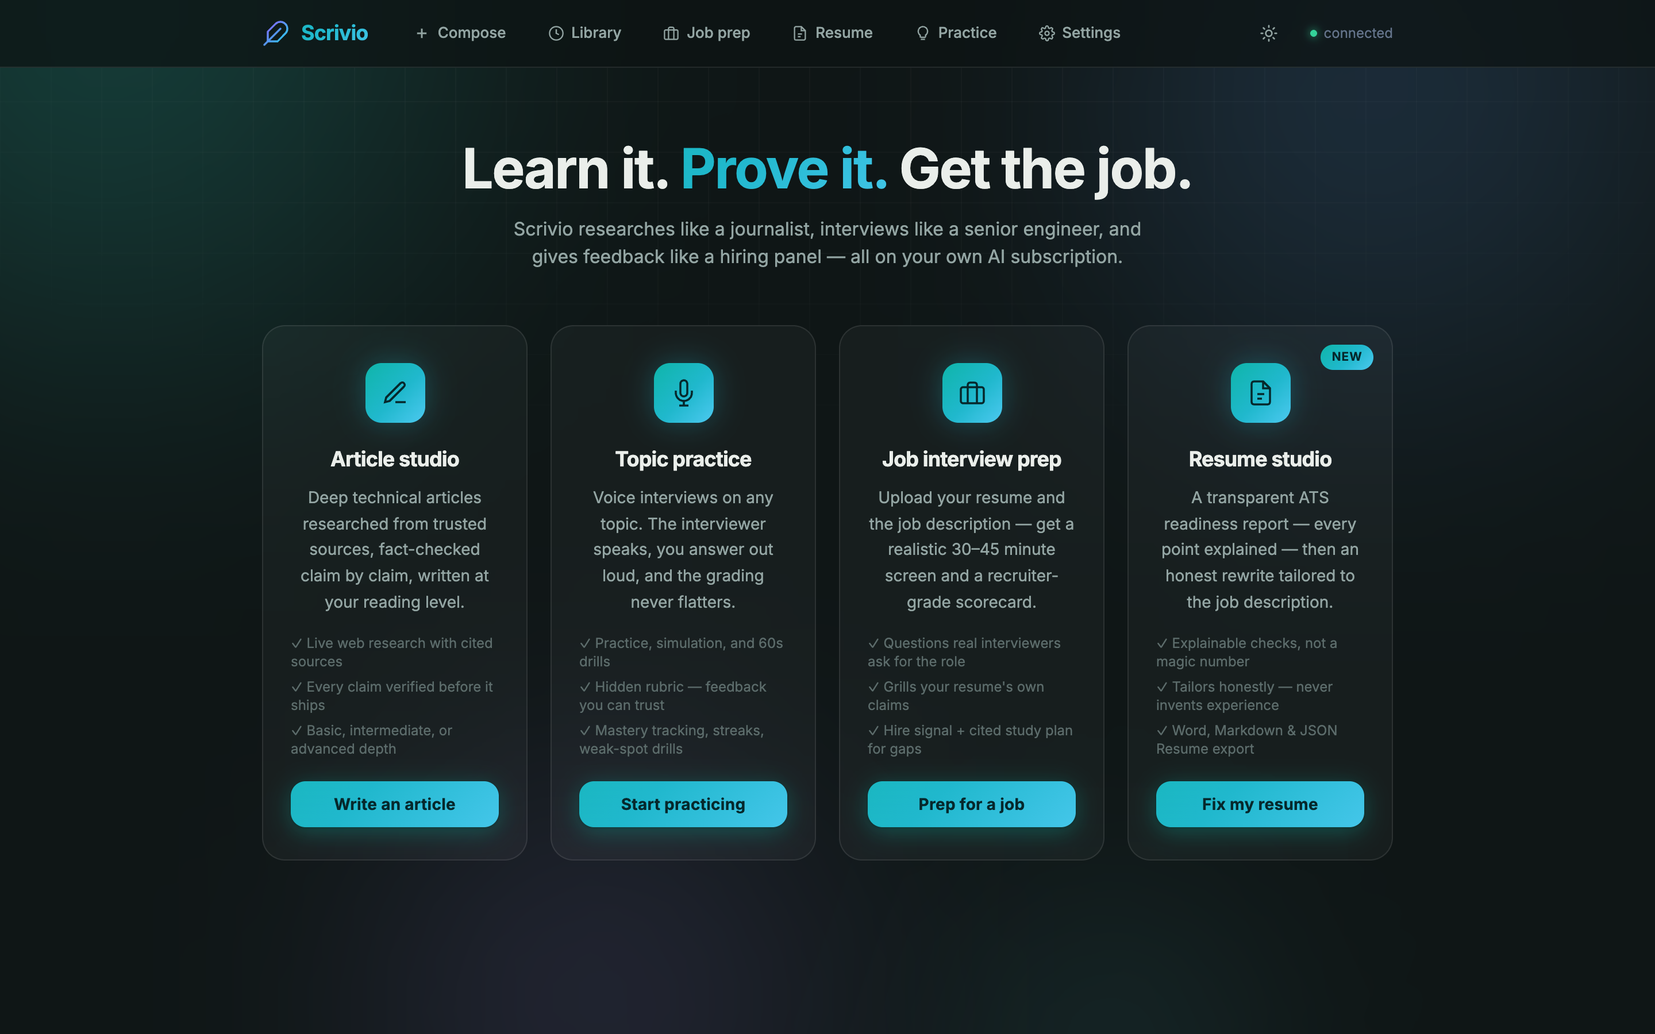
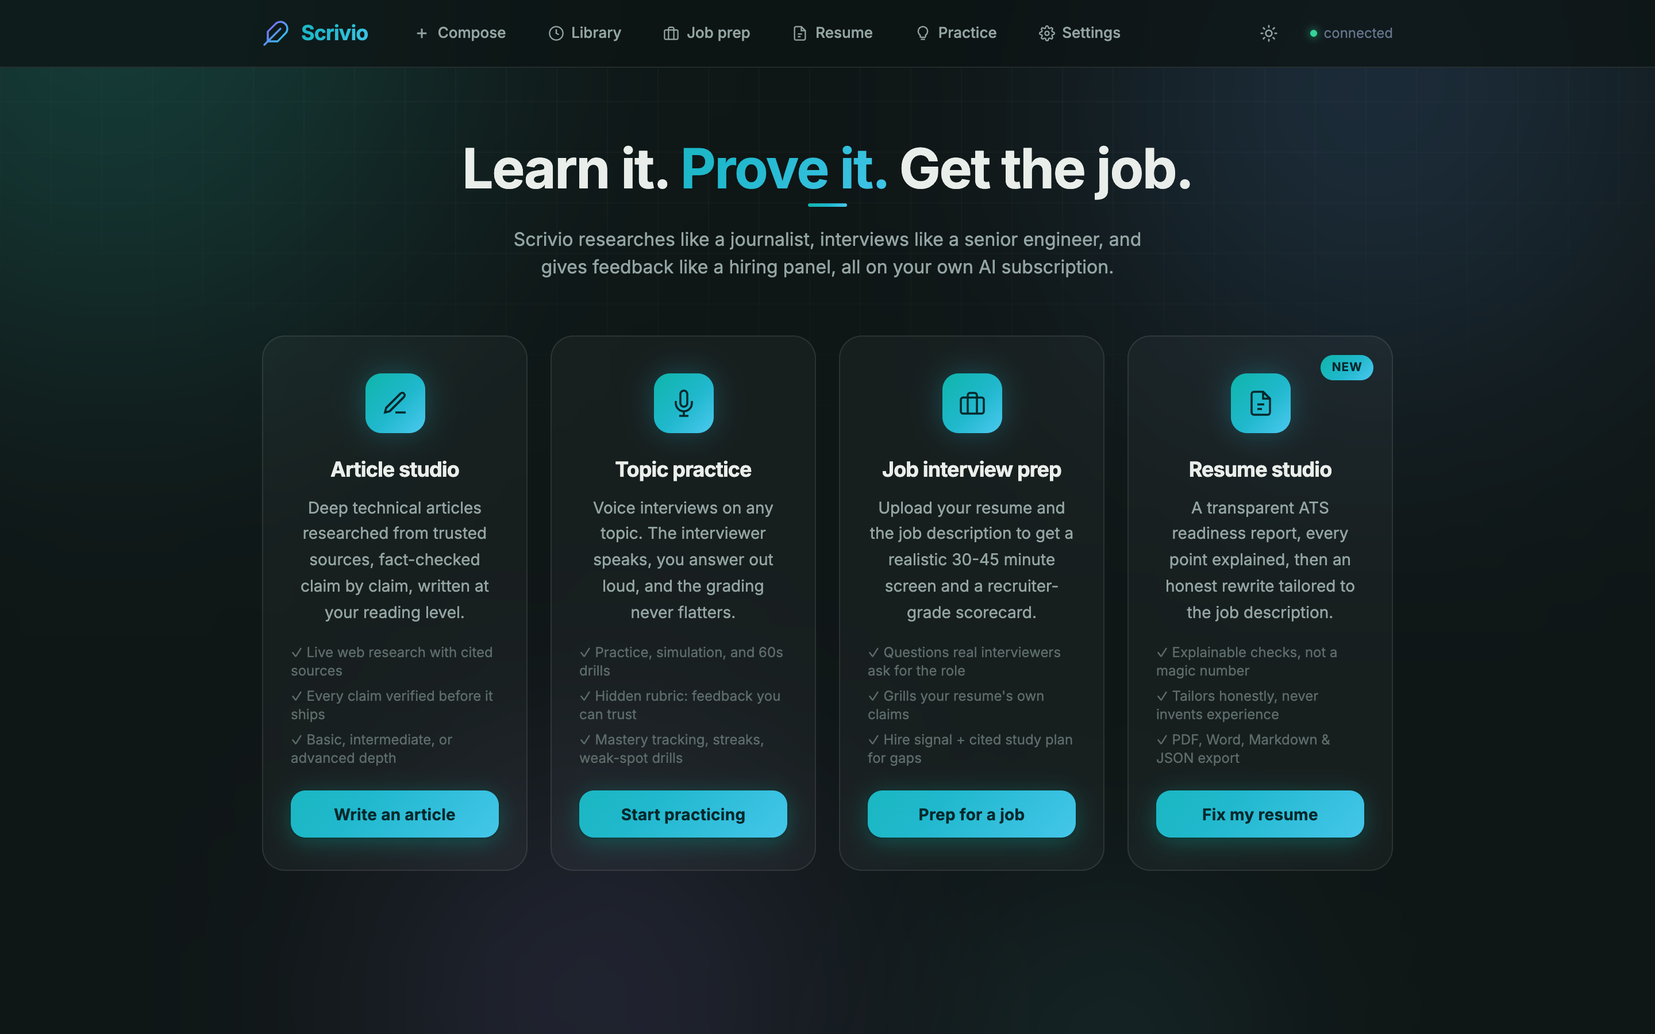
Design elevation pass: tokens, signature bar-tick, keyboard + motion floor
Applied with the frontend-design skill against the established identity
(aurora, Inter/Space Grotesk, teal gradient) rather than replacing it:

- One .eyebrow token replaces 32 hand-typed uppercase label class
  strings (accent variant included) - the type system is now a decision
  made once, not repeated per card.
- Signature element: the bar-tick, a short gradient rule under the four
  studio headlines. It draws the product's thesis - the bar is set
  before you speak - as a quiet, ownable mark.
- Quality floor: a global :focus-visible ring (verified against real
  Tab navigation), and prefers-reduced-motion now stills every
  animation and transition instead of only the aurora blobs.

README home + resume screenshots refreshed with the elevated design.

diff --git a/ui/index.html b/ui/index.html
@@ -130,7 +130,41 @@
     -webkit-mask-image: radial-gradient(ellipse 90% 60% at 50% 0%, black 30%, transparent 75%);
   }
   html[data-theme="light"] .backdrop::after { display: none; }
-  @media (prefers-reduced-motion: reduce) { .blob { animation: none; } }
+  /* Quality floor: every animation and transition yields to the user's
+     motion preference, not just the aurora. */
+  @media (prefers-reduced-motion: reduce) {
+    *, *::before, *::after {
+      animation-duration: 0.01ms !important;
+      animation-iteration-count: 1 !important;
+      transition-duration: 0.01ms !important;
+      scroll-behavior: auto !important;
+    }
+    .blob { animation: none; }
+  }
+
+  /* Keyboard focus: one visible ring everywhere, accent-colored. */
+  :focus-visible {
+    outline: 2px solid var(--accent-text);
+    outline-offset: 2px;
+    border-radius: 6px;
+  }
+
+  /* ── Design tokens: recurring roles ──
+     eyebrow: the small uppercase section label used across every card.
+     bar-tick: the signature mark, a short gradient rule under a headline.
+     The product's thesis is "the bar is set before you speak" (rubrics
+     written first, checks you can verify); this is that bar, drawn. */
+  .eyebrow {
+    font-size: 0.7rem; font-weight: 650; text-transform: uppercase;
+    letter-spacing: 0.08em; color: var(--text-faint);
+  }
+  .eyebrow-accent { color: var(--accent-text); }
+  .bar-tick { position: relative; padding-bottom: 0.55rem; }
+  .bar-tick::after {
+    content: ""; position: absolute; left: 0; bottom: 0;
+    width: 34px; height: 3px; border-radius: 2px; background: var(--grad);
+  }
+  .bar-tick-center::after { left: 50%; transform: translateX(-50%); }
 
   /* Typography: Inter everywhere (SF Pro takes over on Apple devices via
      the -apple-system fallback ahead of webfont load). Display = tighter
@@ -710,7 +744,7 @@
   <!-- ── Home ── -->
   <section id="home-panel" class="view hidden">
     <div class="text-center mb-12 mt-6 rise-in">
-      <h1 class="font-display text-4xl sm:text-5xl font-bold tracking-tight leading-tight">
+      <h1 class="font-display text-4xl sm:text-5xl font-bold tracking-tight leading-tight bar-tick bar-tick-center">
         Learn it. <span class="grad-text">Prove it.</span> Get the job.
       </h1>
       <p class="text-sm sm:text-base mt-4 max-w-xl mx-auto" style="color:var(--text-dim)">
@@ -791,7 +825,7 @@
   <!-- ── Compose ── -->
   <section id="config-panel" class="view view-fade">
     <div class="text-center mb-8 mt-2">
-      <h1 class="font-display text-3xl sm:text-4xl font-bold tracking-tight leading-tight">
+      <h1 class="font-display text-3xl sm:text-4xl font-bold tracking-tight leading-tight bar-tick bar-tick-center">
         What should we <span class="grad-text">write</span> today?
       </h1>
       <p class="text-sm mt-3" style="color:var(--text-dim)">
@@ -1035,7 +1069,7 @@
         <span class="text-xs font-mono-ui" style="color:var(--text-faint)" id="output-dir"></span>
       </div>
       <div class="flex items-center gap-2">
-        <label class="text-xs font-semibold uppercase tracking-wider" style="color:var(--text-dim)">Level</label>
+        <label class="eyebrow" style="color:var(--text-dim)">Level</label>
         <select id="level-selector" class="q-input py-1.5 text-sm" style="width:auto;"></select>
         <button type="button" id="result-practice-btn" class="btn-primary text-sm">
           <svg class="w-3.5 h-3.5" viewBox="0 0 24 24" fill="none" stroke="currentColor" stroke-width="2.5"><polyline points="9 11 12 14 22 4"/><path d="M21 12v7a2 2 0 0 1-2 2H5a2 2 0 0 1-2-2V5a2 2 0 0 1 2-2h11"/></svg>
@@ -1081,11 +1115,11 @@
       </div>
       <div class="flex items-center gap-3 flex-wrap">
         <div class="hidden items-center gap-2" id="past-version-wrap" style="display:none">
-          <label class="text-xs font-semibold uppercase tracking-wider" style="color:var(--text-dim)">Version</label>
+          <label class="eyebrow" style="color:var(--text-dim)">Version</label>
           <select id="past-version-selector" class="q-input py-1.5 text-sm" style="width:auto;"></select>
         </div>
         <div class="flex items-center gap-2" id="past-level-wrap">
-          <label class="text-xs font-semibold uppercase tracking-wider" style="color:var(--text-dim)">Level</label>
+          <label class="eyebrow" style="color:var(--text-dim)">Level</label>
           <select id="past-level-selector" class="q-input py-1.5 text-sm" style="width:auto;"></select>
         </div>
         <button type="button" id="past-practice-btn" class="btn-primary text-sm">
@@ -1109,7 +1143,7 @@
     <!-- Home: start a session or resume a past one -->
     <div id="practice-home">
       <div class="text-center mb-8 mt-2 rise-in">
-        <h1 class="font-display text-3xl sm:text-4xl font-bold tracking-tight leading-tight">
+        <h1 class="font-display text-3xl sm:text-4xl font-bold tracking-tight leading-tight bar-tick bar-tick-center">
           Ready for your next <span class="grad-text">interview</span>?
         </h1>
         <p class="text-sm mt-3" style="color:var(--text-dim)">
@@ -1266,7 +1300,7 @@
   <!-- ── Job prep ── -->
   <section id="job-panel" class="view hidden">
     <div class="text-center mb-8 mt-2 rise-in">
-      <h1 class="font-display text-3xl sm:text-4xl font-bold tracking-tight leading-tight">
+      <h1 class="font-display text-3xl sm:text-4xl font-bold tracking-tight leading-tight bar-tick bar-tick-center">
         Interview for <span class="grad-text">the job</span>, not just the topic
       </h1>
       <p class="text-sm mt-3" style="color:var(--text-dim)">
@@ -1278,19 +1312,19 @@
     <div class="card px-6 py-6 mb-6 rise-in" style="animation-delay:.06s" id="job-setup-card">
       <div class="grid grid-cols-1 sm:grid-cols-2 gap-4 mb-4">
         <div>
-          <label class="block text-xs font-semibold uppercase tracking-wider mb-1.5" style="color:var(--text-dim)">Role title *</label>
+          <label class="block eyebrow mb-1.5" style="color:var(--text-dim)">Role title *</label>
           <input id="job-role" type="text" class="q-input w-full text-sm" placeholder="e.g. Senior Backend Engineer" />
         </div>
         <div>
-          <label class="block text-xs font-semibold uppercase tracking-wider mb-1.5" style="color:var(--text-dim)">Company</label>
+          <label class="block eyebrow mb-1.5" style="color:var(--text-dim)">Company</label>
           <input id="job-company" type="text" class="q-input w-full text-sm" placeholder="e.g. Acme Corp" />
         </div>
         <div>
-          <label class="block text-xs font-semibold uppercase tracking-wider mb-1.5" style="color:var(--text-dim)">Location</label>
+          <label class="block eyebrow mb-1.5" style="color:var(--text-dim)">Location</label>
           <input id="job-location" type="text" class="q-input w-full text-sm" placeholder="e.g. Austin, TX / Remote" />
         </div>
         <div>
-          <label class="block text-xs font-semibold uppercase tracking-wider mb-1.5" style="color:var(--text-dim)">Seniority</label>
+          <label class="block eyebrow mb-1.5" style="color:var(--text-dim)">Seniority</label>
           <select id="job-seniority" class="q-input w-full text-sm">
             <option value="">Not specified</option>
             <option value="junior">Junior</option>
@@ -1303,13 +1337,13 @@
       </div>
 
       <div class="mb-4">
-        <label class="block text-xs font-semibold uppercase tracking-wider mb-1.5" style="color:var(--text-dim)">Job description * <span class="normal-case font-normal" style="color:var(--text-faint)">paste it, or a posting URL</span></label>
+        <label class="block eyebrow mb-1.5" style="color:var(--text-dim)">Job description * <span class="normal-case font-normal" style="color:var(--text-faint)">paste it, or a posting URL</span></label>
         <input id="job-jd-url" type="text" class="q-input w-full text-sm mb-2" placeholder="https://… (optional — fetches the posting)" />
         <textarea id="job-jd" rows="5" class="q-input w-full text-sm" placeholder="Paste the job description here…"></textarea>
       </div>
 
       <div class="mb-4">
-        <label class="block text-xs font-semibold uppercase tracking-wider mb-1.5" style="color:var(--text-dim)">Resume * <span class="normal-case font-normal" style="color:var(--text-faint)">PDF, DOCX, TXT, or paste</span></label>
+        <label class="block eyebrow mb-1.5" style="color:var(--text-dim)">Resume * <span class="normal-case font-normal" style="color:var(--text-faint)">PDF, DOCX, TXT, or paste</span></label>
         <div class="flex items-center gap-3 mb-2 flex-wrap">
           <label class="btn-outline text-sm cursor-pointer">
             <input id="job-resume-file" type="file" accept=".pdf,.docx,.txt,.md" class="hidden" />
@@ -1321,7 +1355,7 @@
       </div>
 
       <div class="mb-4">
-        <label class="block text-xs font-semibold uppercase tracking-wider mb-1.5" style="color:var(--text-dim)">Anything else? <span class="normal-case font-normal" style="color:var(--text-faint)">recruiter hints, round focus, notes</span></label>
+        <label class="block eyebrow mb-1.5" style="color:var(--text-dim)">Anything else? <span class="normal-case font-normal" style="color:var(--text-faint)">recruiter hints, round focus, notes</span></label>
         <input id="job-notes" type="text" class="q-input w-full text-sm" placeholder="e.g. recruiter said they focus on system design" />
       </div>
 
@@ -1373,7 +1407,7 @@
     <!-- Setup -->
     <div class="card px-6 py-6 mb-6 rise-in" style="animation-delay:.06s" id="resume-setup-card">
       <div class="mb-4">
-        <label class="block text-xs font-semibold uppercase tracking-wider mb-1.5" style="color:var(--text-dim)">Resume * <span class="normal-case font-normal" style="color:var(--text-faint)">PDF, DOCX, TXT, JSON Resume, or paste</span></label>
+        <label class="block eyebrow mb-1.5" style="color:var(--text-dim)">Resume * <span class="normal-case font-normal" style="color:var(--text-faint)">PDF, DOCX, TXT, JSON Resume, or paste</span></label>
         <div class="flex items-center gap-3 mb-2 flex-wrap">
           <label class="btn-outline text-sm cursor-pointer">
             <input id="resume-file" type="file" accept=".pdf,.docx,.txt,.md,.json" class="hidden" />
@@ -1385,7 +1419,7 @@
       </div>
 
       <div class="mb-4">
-        <label class="block text-xs font-semibold uppercase tracking-wider mb-1.5" style="color:var(--text-dim)">Target job <span class="normal-case font-normal" style="color:var(--text-faint)">optional, unlocks keyword match + tailoring</span></label>
+        <label class="block eyebrow mb-1.5" style="color:var(--text-dim)">Target job <span class="normal-case font-normal" style="color:var(--text-faint)">optional, unlocks keyword match + tailoring</span></label>
         <select id="resume-jd-profile" class="q-input w-full text-sm mb-2">
           <option value="">No saved job target</option>
         </select>
@@ -2648,7 +2682,7 @@
       if (topics.length) {
         masteryEl.classList.remove('hidden');
         masteryEl.innerHTML =
-          '<p class="text-xs font-semibold uppercase tracking-wider mb-3" style="color:var(--text-faint)">Topic mastery</p>' +
+          '<p class="eyebrow mb-3">Topic mastery</p>' +
           topics.map(t => `
             <div class="mb-2.5">
               <div class="flex items-center justify-between text-xs mb-1">
@@ -2916,7 +2950,7 @@
     if (!items || items.length === 0) return '';
     return `
       <div class="mb-3">
-        <p class="text-xs font-semibold uppercase tracking-wider mb-1" style="color:${color}">${title}</p>
+        <p class="eyebrow mb-1" style="color:${color}">${title}</p>
         <ul class="text-sm space-y-1" style="color:var(--text-dim)">
           ${items.map(i => `<li class="flex gap-2"><span style="color:${color}">•</span><span>${escapeHtml(i)}</span></li>`).join('')}
         </ul>
@@ -2937,7 +2971,7 @@
       $('practice-answer-block').classList.add('hidden');
       tail = `
         <div class="pt-3 mt-1" style="border-top:1px solid var(--stroke)">
-          <p class="text-xs font-semibold uppercase tracking-wider mb-1" style="color:var(--accent-text)">Follow-up question</p>
+          <p class="eyebrow eyebrow-accent mb-1">Follow-up question</p>
           <p class="text-sm font-semibold mb-3" style="color:var(--text)">${escapeHtml(followupQuestion)}</p>
           <div id="practice-followup-voice"></div>
           <div class="flex items-center justify-center gap-3 mt-2">
@@ -2949,7 +2983,7 @@
       $('practice-answer-block').classList.add('hidden');
       const modelAnswer = question.model_answer
         ? `<div class="pt-3 mt-1" style="border-top:1px solid var(--stroke)">
-             <p class="text-xs font-semibold uppercase tracking-wider mb-1" style="color:var(--text-faint)">What an interviewer wants to hear</p>
+             <p class="eyebrow mb-1">What an interviewer wants to hear</p>
              <div class="prose-feedback text-sm leading-relaxed" style="color:var(--text-dim)">${marked.parse(question.model_answer)}</div>
            </div>`
         : '';
@@ -3123,7 +3157,7 @@
     const isSim = State.practice && State.practice.session.mode === 'simulation';
     const debrief = summary.debrief
       ? `<div class="card px-6 py-5 mb-4" style="border-color:rgba(32,184,205,0.35)">
-           <p class="text-xs font-semibold uppercase tracking-wider mb-2" style="color:var(--accent-text)">Interviewer's notes</p>
+           <p class="eyebrow eyebrow-accent mb-2">Interviewer's notes</p>
            <p class="text-sm leading-relaxed" style="color:var(--text)">${escapeHtml(summary.debrief)}</p>
          </div>`
       : '';
@@ -3138,7 +3172,7 @@
       </div>
       ${debrief}
       <div class="card px-6 py-5 mb-4">${rows || '<p class="text-sm" style="color:var(--text-dim)">No questions.</p>'}</div>
-      ${weak ? `<div class="card px-6 py-4 mb-4"><p class="text-xs font-semibold uppercase tracking-wider mb-1" style="color:var(--text-faint)">Before the real interview, revisit</p><p class="text-sm" style="color:var(--text-dim)">${escapeHtml(weak)}</p></div>` : ''}
+      ${weak ? `<div class="card px-6 py-4 mb-4"><p class="eyebrow mb-1">Before the real interview, revisit</p><p class="text-sm" style="color:var(--text-dim)">${escapeHtml(weak)}</p></div>` : ''}
       <div class="flex items-center justify-center gap-3 mt-6">
         <button type="button" id="practice-again-btn" class="btn-primary text-sm">Practice again</button>
         <button type="button" id="practice-home-btn" class="btn-outline text-sm">All sessions</button>
@@ -3260,7 +3294,7 @@
       ? `<p class="text-xs mt-3" style="color:var(--text-faint)">The interviewer will probe: <span style="color:var(--text-dim)">${a.gaps.map(escapeHtml).join(' · ')}</span></p>`
       : '';
     $('job-fit-body').innerHTML = `
-      <p class="text-xs font-semibold uppercase tracking-wider mb-2" style="color:var(--text-faint)">What this interview will measure</p>
+      <p class="eyebrow mb-2">What this interview will measure</p>
       <div>${chips}</div>${gaps}`;
     $('job-fit').classList.remove('hidden');
     $('job-fit').scrollIntoView({ behavior: 'smooth', block: 'center' });
@@ -3297,7 +3331,7 @@
     const fb = $('practice-feedback');
     fb.innerHTML = `
       <div class="card px-6 py-5">
-        <p class="text-xs font-semibold uppercase tracking-wider mb-1" style="color:var(--accent-text)">Follow-up</p>
+        <p class="eyebrow eyebrow-accent mb-1">Follow-up</p>
         <p class="text-sm font-semibold mb-3" style="color:var(--text)">${escapeHtml(followupQuestion)}</p>
         <div id="practice-followup-voice"></div>
         <div class="flex items-center justify-center gap-3 mt-2">
@@ -3370,13 +3404,13 @@
         <p class="text-sm mb-3" style="color:var(--text-dim)">${escapeHtml(session.topic)} · ${summary.answered} answered · avg ${avg}/10</p>
         ${sc.hire_signal ? `<span class="px-3 py-1.5 rounded-full text-sm font-bold" style="${signalStyle}">${escapeHtml(sc.hire_signal)}</span>` : ''}
       </div>
-      ${sc.debrief ? `<div class="card px-6 py-5 mb-4" style="border-color:rgba(32,184,205,0.35)"><p class="text-xs font-semibold uppercase tracking-wider mb-2" style="color:var(--accent-text)">Panel notes</p><p class="text-sm leading-relaxed" style="color:var(--text)">${escapeHtml(sc.debrief)}</p></div>` : ''}
+      ${sc.debrief ? `<div class="card px-6 py-5 mb-4" style="border-color:rgba(32,184,205,0.35)"><p class="eyebrow eyebrow-accent mb-2">Panel notes</p><p class="text-sm leading-relaxed" style="color:var(--text)">${escapeHtml(sc.debrief)}</p></div>` : ''}
       <div class="card px-6 py-5 mb-4">
-        <p class="text-xs font-semibold uppercase tracking-wider mb-2" style="color:var(--text-faint)">Competency scorecard: tap to see evidence</p>
+        <p class="eyebrow mb-2">Competency scorecard: tap to see evidence</p>
         ${competencies}
       </div>
-      ${coverage ? `<div class="card px-6 py-5 mb-4"><p class="text-xs font-semibold uppercase tracking-wider mb-2" style="color:var(--text-faint)">JD requirement coverage</p>${coverage}</div>` : ''}
-      ${studyPlan ? `<div class="card px-6 py-5 mb-4"><p class="text-xs font-semibold uppercase tracking-wider mb-2" style="color:var(--text-faint)">Study plan: trusted sources for your gaps</p>${studyPlan}</div>` : ''}
+      ${coverage ? `<div class="card px-6 py-5 mb-4"><p class="eyebrow mb-2">JD requirement coverage</p>${coverage}</div>` : ''}
+      ${studyPlan ? `<div class="card px-6 py-5 mb-4"><p class="eyebrow mb-2">Study plan: trusted sources for your gaps</p>${studyPlan}</div>` : ''}
       <div class="flex items-center justify-center gap-3 mt-6">
         <button type="button" id="job-again-btn" class="btn-primary text-sm">Interview again</button>
         <button type="button" id="job-back-btn" class="btn-outline text-sm">Back to job prep</button>
@@ -3694,7 +3728,7 @@
     const covHtml = cov ? `
       <div class="mt-5">
         <div class="flex items-center justify-between mb-1.5">
-          <p class="text-xs font-semibold uppercase tracking-wider" style="color:var(--text-faint)">JD keyword match</p>
+          <p class="eyebrow">JD keyword match</p>
           <span class="text-xs font-bold" style="color:${atsColor(cov.percent)}">${cov.percent}%</span>
         </div>
         <div style="height:6px;background:var(--surface-2);border-radius:3px;overflow:hidden;margin-bottom:10px">
@@ -3771,7 +3805,7 @@
 
     const checklistCard = `
       <div class="card px-6 py-5 mb-4">
-        <p class="text-xs font-semibold uppercase tracking-wider mb-1" style="color:var(--text-faint)">The checklist: fixes first, biggest weight first</p>
+        <p class="eyebrow mb-1">The checklist: fixes first, biggest weight first</p>
         ${checkRows}${pendingRows}
       </div>`;
 
@@ -3779,19 +3813,19 @@
 
     const reviewCard = review ? `
       <div class="card px-6 py-5 mb-4" style="border-color:rgba(32,184,205,0.35)">
-        <p class="text-xs font-semibold uppercase tracking-wider mb-2" style="color:var(--accent-text)">Recruiter's read</p>
+        <p class="eyebrow eyebrow-accent mb-2">Recruiter's read</p>
         <p class="text-sm leading-relaxed mb-4" style="color:var(--text)">${escapeHtml(review.summary)}</p>
         ${review.strengths.length ? `<p class="text-xs mb-3" style="color:#4ade80">✓ ${review.strengths.map(escapeHtml).join('<br/>✓ ')}</p>` : ''}
         ${review.issues.map(i => `
           <div class="mb-3 pl-3" style="border-left:2px solid ${CATEGORY_COLORS[i.category] || 'var(--stroke)'}">
-            <p class="text-xs font-semibold uppercase tracking-wider" style="color:${CATEGORY_COLORS[i.category] || 'var(--text-faint)'}">${escapeHtml(i.category)}</p>
+            <p class="eyebrow" style="color:${CATEGORY_COLORS[i.category] || 'var(--text-faint)'}">${escapeHtml(i.category)}</p>
             <p class="text-sm mt-0.5" style="color:var(--text-dim)">${escapeHtml(i.detail)}</p>
             <p class="text-xs mt-1" style="color:var(--text)"><span class="font-semibold" style="color:var(--accent-text)">Fix:</span> ${escapeHtml(i.fix)}</p>
           </div>`).join('')}
         ${review.missing_keywords.length ? `<p class="text-xs mt-3" style="color:var(--text-faint)">Also missing vs the JD: <span style="color:var(--text-dim)">${review.missing_keywords.map(escapeHtml).join(' · ')}</span></p>` : ''}
       </div>` : doc.status === 'analyzing' ? `
       <div class="card px-6 py-5 mb-4" style="border-style:dashed">
-        <p class="text-xs font-semibold uppercase tracking-wider mb-2" style="color:var(--text-faint)">Recruiter's read</p>
+        <p class="eyebrow mb-2">Recruiter's read</p>
         <p class="text-sm" style="color:var(--text-dim)">Being written now; watch the progress bar above. The checklist is already real; two structure checks join when mapping finishes.</p>
       </div>` : doc.status === 'error' ? `
       <div class="card px-6 py-5 mb-4" style="border-color:rgba(248,113,113,0.4)">
@@ -3899,7 +3933,7 @@
 
     const warningsHtml = t.warnings.length ? `
       <div class="mt-4 p-4 rounded-xl" style="background:rgba(251,191,36,0.07);border:1px solid rgba(251,191,36,0.3)">
-        <p class="text-xs font-semibold uppercase tracking-wider mb-2" style="color:#fbbf24">Honesty notes: read before sending</p>
+        <p class="eyebrow mb-2" style="color:#fbbf24">Honesty notes: read before sending</p>
         ${t.warnings.map(w => `<p class="text-xs py-0.5 leading-relaxed" style="color:var(--text-dim)">• ${escapeHtml(w).replace(/\[METRIC\]/g, '<mark style="background:rgba(251,191,36,0.25);color:#fbbf24;padding:0 4px;border-radius:3px;font-weight:600">[METRIC]</mark>')}</p>`).join('')}
       </div>` : '';
 
@@ -3933,7 +3967,7 @@
       </div>` : ''}
       <div class="mb-5">${_downloadBar(doc.resume_id, 'tailored', occ.length ? { warn: `${occ.length} [METRIC] to fill` } : {})}</div>
       ${mdHtml ? `<div class="paper px-6 sm:px-8 py-7 mb-5"><article class="prose text-sm">${mdHtml}</article></div>` : ''}
-      <p class="text-xs font-semibold uppercase tracking-wider mb-2" style="color:var(--text-faint)">What changed, and why</p>
+      <p class="eyebrow mb-2">What changed, and why</p>
       ${changesHtml || '<p class="text-xs" style="color:var(--text-faint)">No changes logged.</p>'}
       ${warningsHtml}
       <div class="mt-5 pt-4" style="border-top:1px solid var(--stroke)">
@@ -4094,7 +4128,7 @@
       const header = document.createElement('div');
       header.className = 'pt-4 pb-1';
       header.innerHTML = `
-        <p class="text-xs font-semibold uppercase tracking-wider" style="color:var(--text-faint)">${escapeHtml(group.title)}</p>
+        <p class="eyebrow">${escapeHtml(group.title)}</p>
         <p class="text-xs mt-0.5" style="color:var(--text-dim)">${escapeHtml(group.hint)}</p>`;
       container.appendChild(header);
       for (const keyName of group.keys) {
